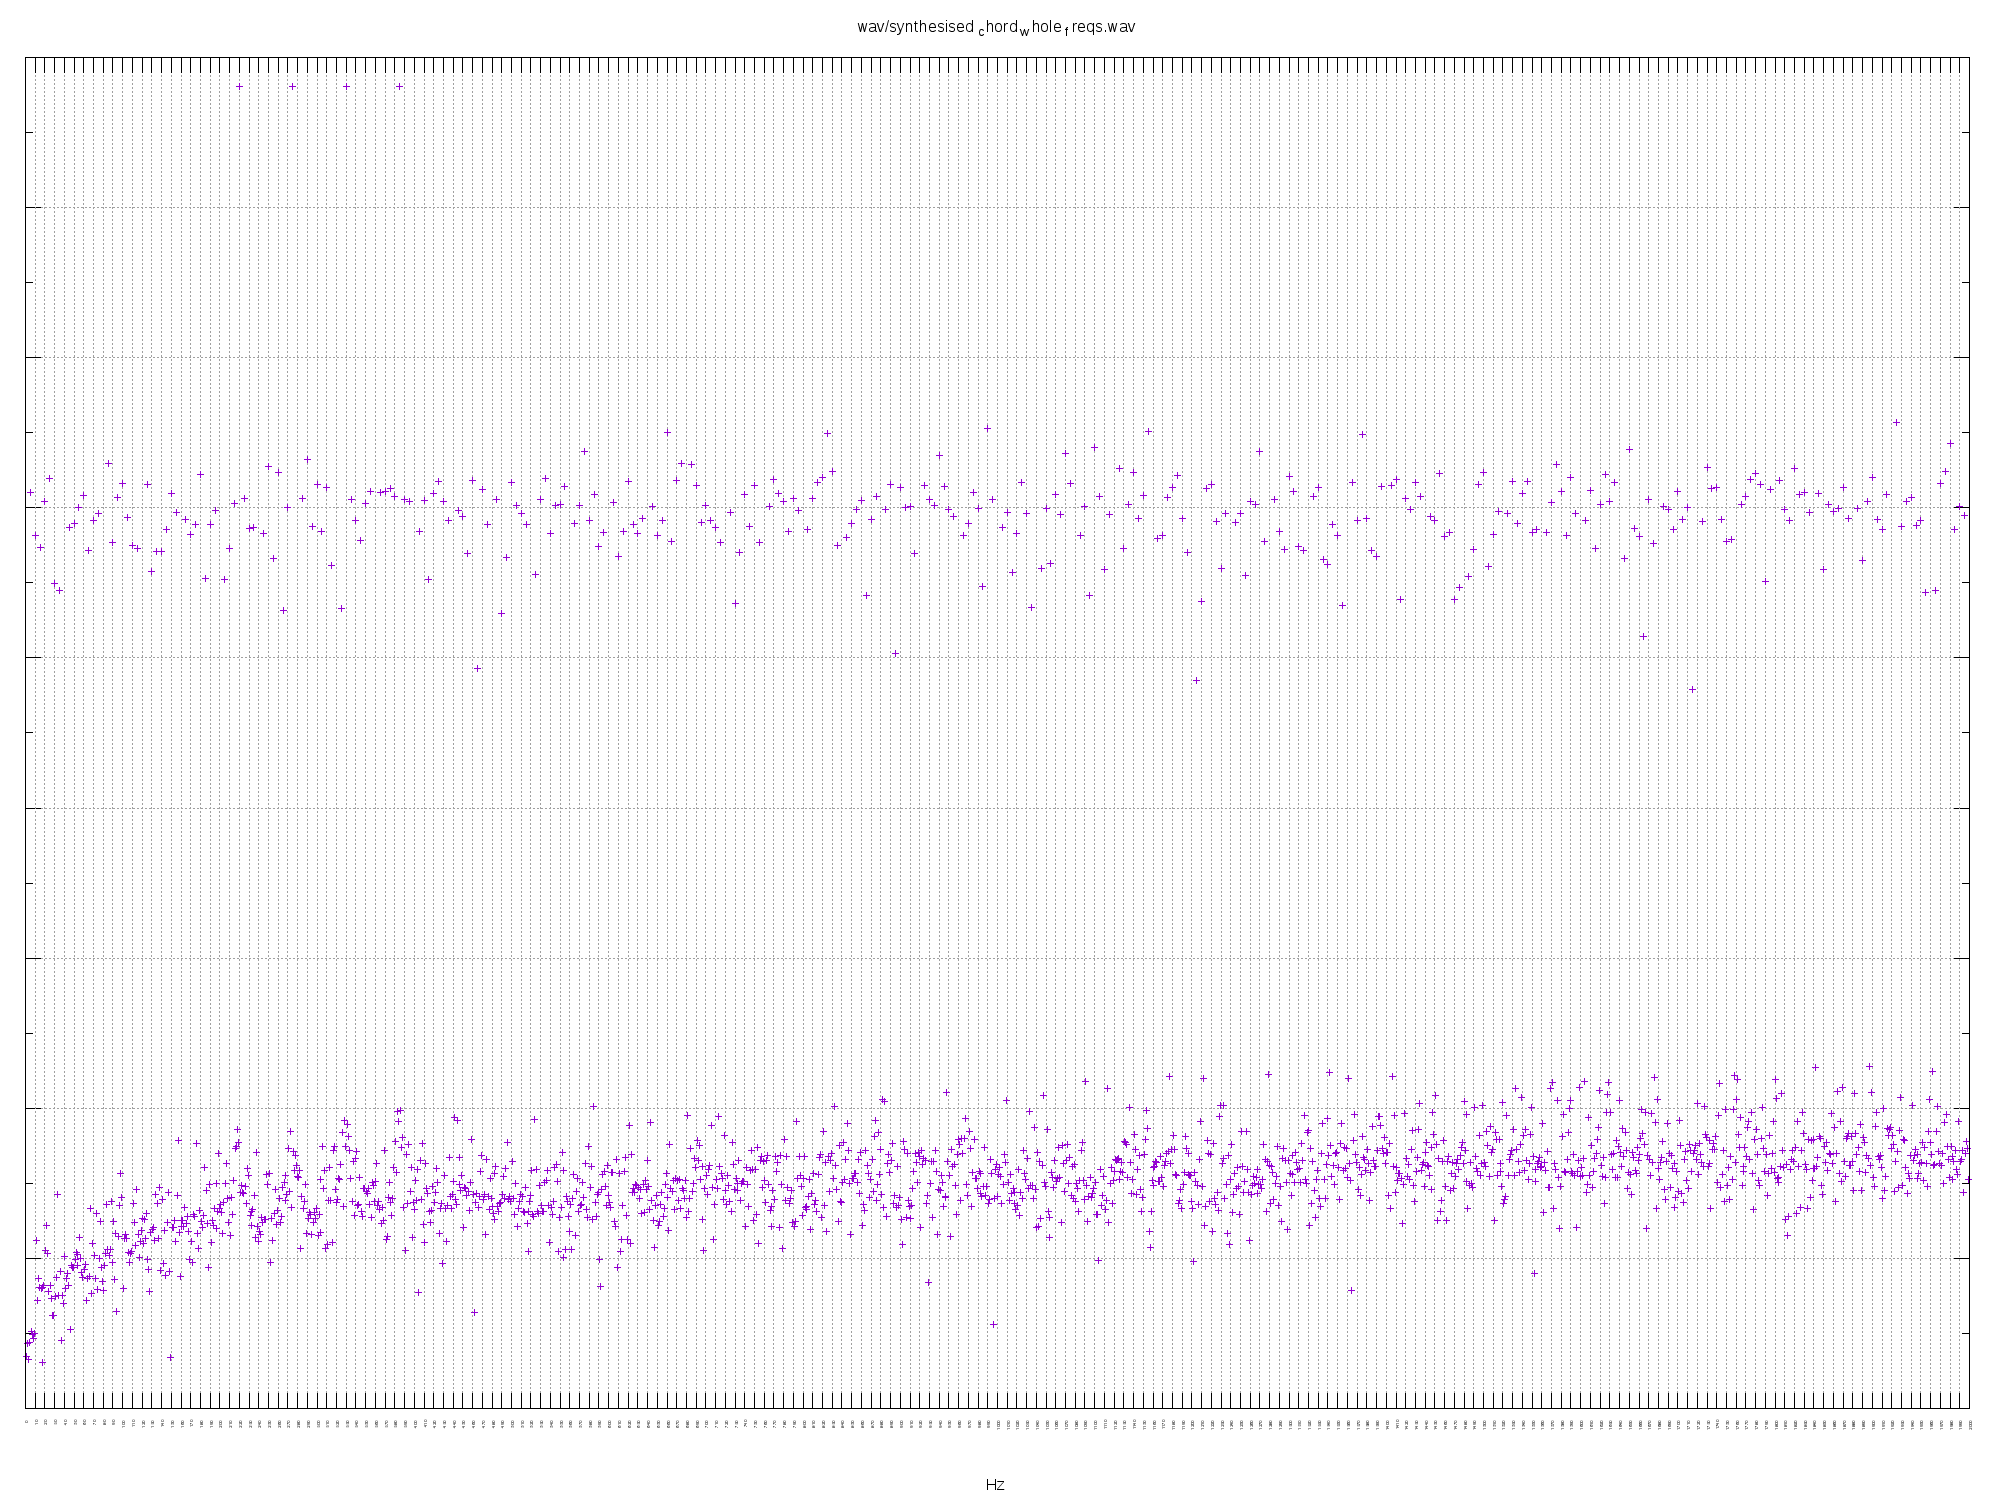
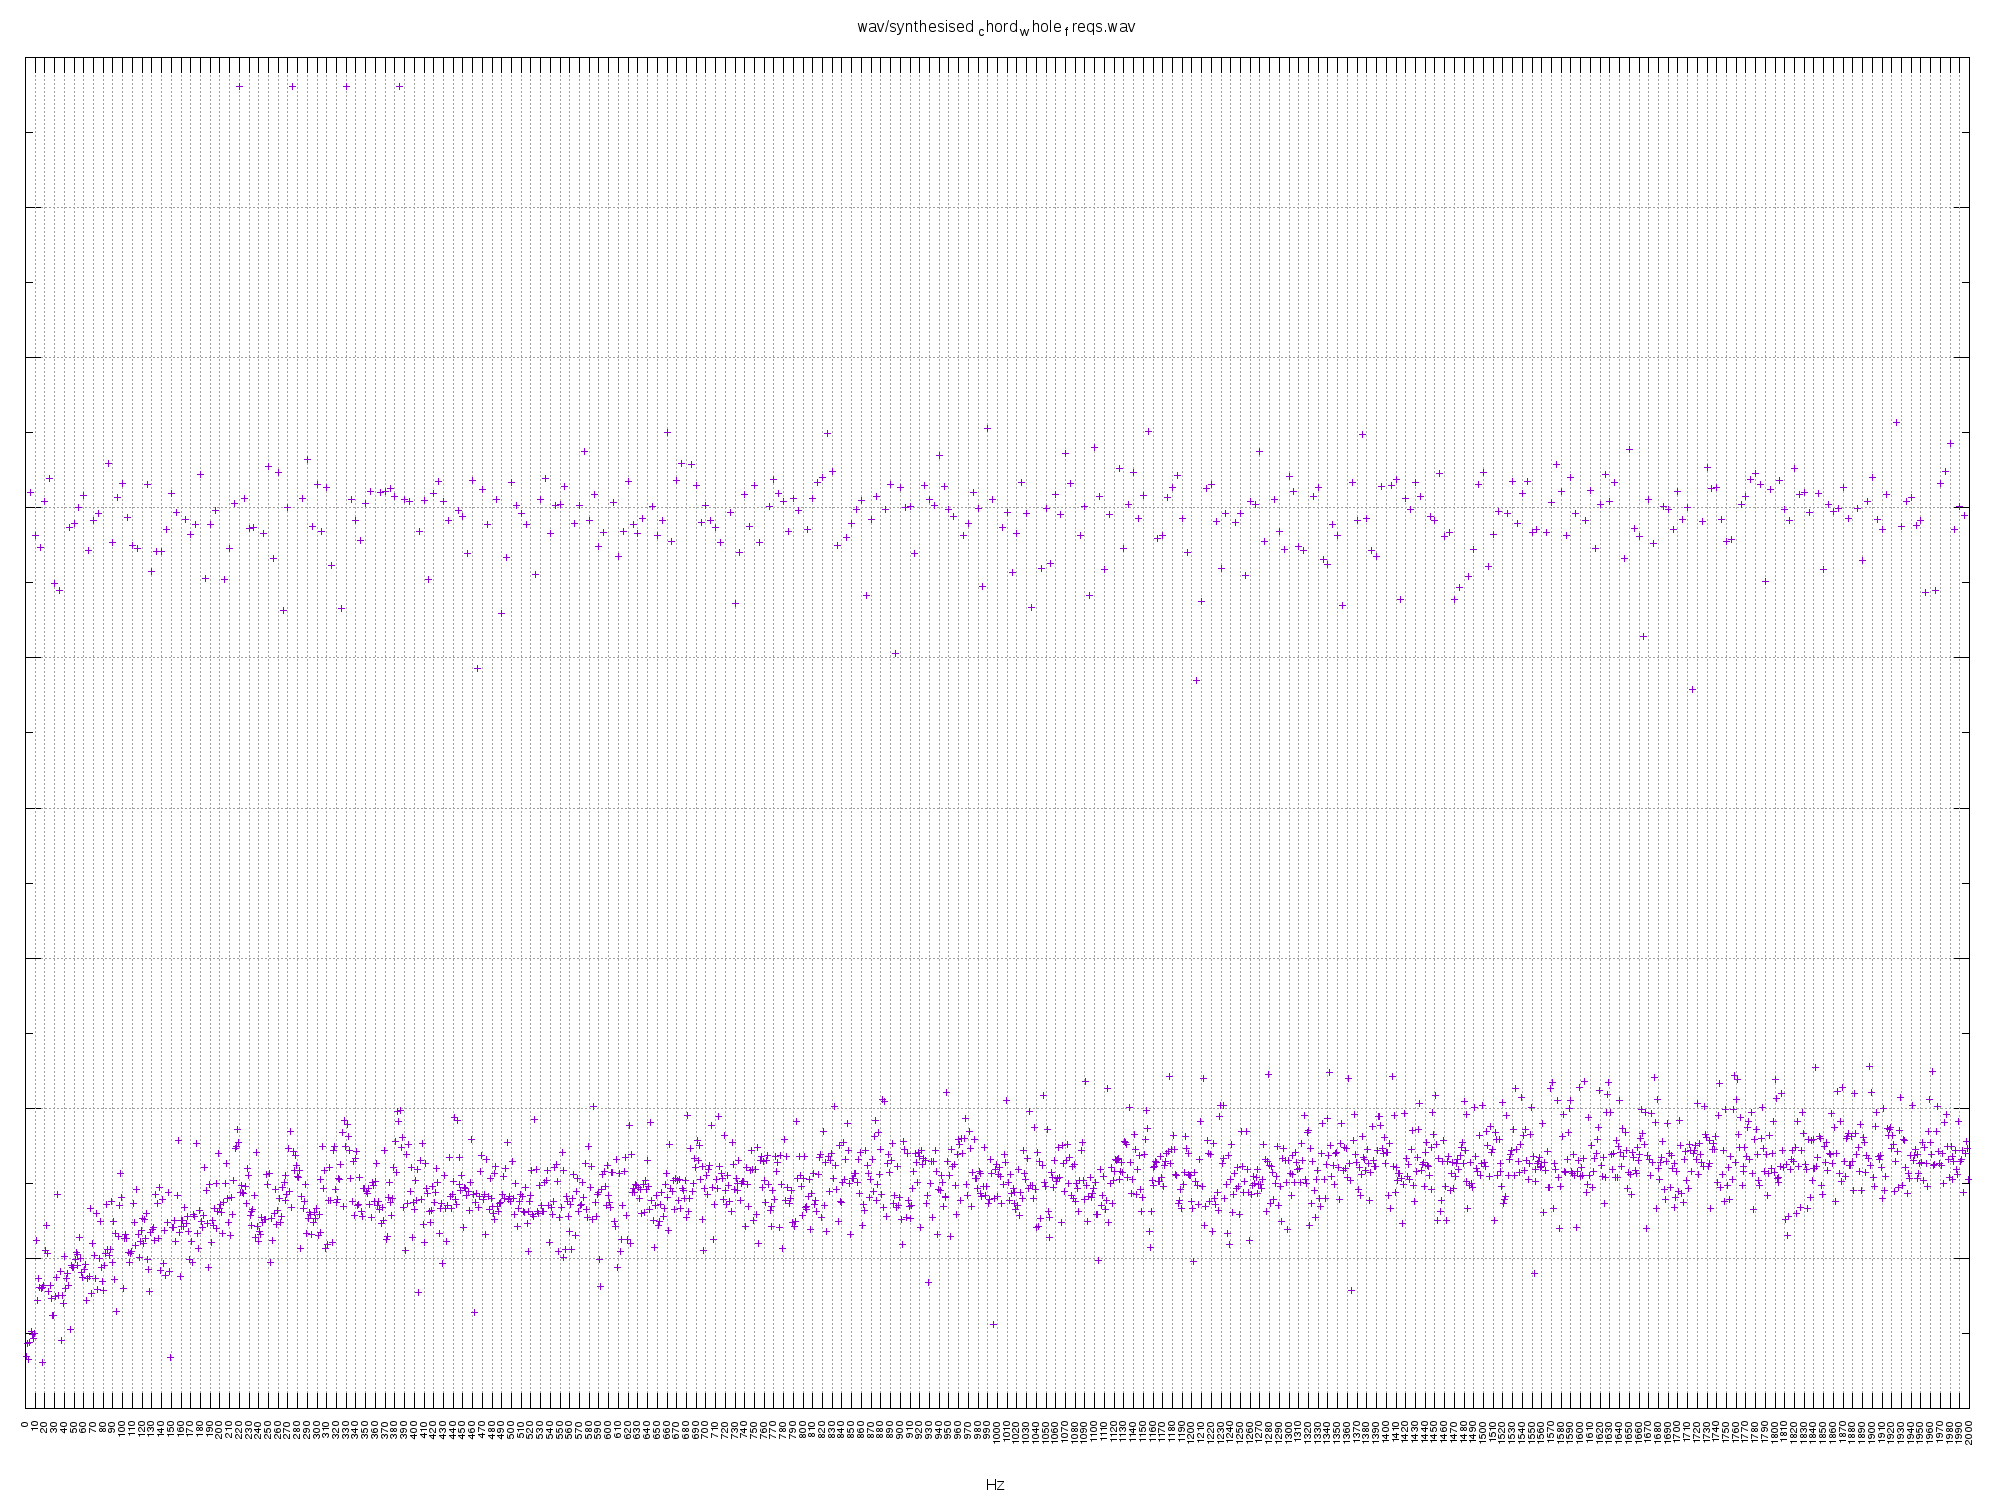
Increase font size and regen

Changed region(s): [[0.124, 0.9507, 0.992, 0.9813]]

diff --git a/dft.cpp b/dft.cpp
@@ -64,7 +64,7 @@ int main(int argc, char **argv) {
                  << "set xtics rotate\n"
                  << "set xlabel \"Hz\"\n"
                  << "set grid xtics ytics\n"
-                 << "set tics font \"Helvetica,3\"\n"
+                 << "set tics font \"Helvetica,8\"\n"
                  << "set logscale y\n"
                  << "plot \"" << basename + ".csv\" notitle\n";
 
@@ -72,7 +72,7 @@ int main(int argc, char **argv) {
     csv_file.close();
     gnuplot_file.close();
 
-    // Report basic stats
+    // Report index of highest peak and current input file name
     std::puts(
         std::string{std::to_string(std::distance(
                         std::cbegin(dft),

diff --git a/readme.md b/readme.md
@@ -1,6 +1,6 @@
 [![Build Status](https://travis-ci.org/deanturpin/dft.svg?branch=master)](https://travis-ci.org/deanturpin/dft)
 [![codecov](https://codecov.io/gh/deanturpin/dft/branch/master/graph/badge.svg)](https://codecov.io/gh/deanturpin/dft)
-Sun 17 Jun 00:11:17 BST 2018
+Sun 17 Jun 00:29:16 BST 2018
 ```cpp
 #ifndef DFT_H
 #define DFT_H
